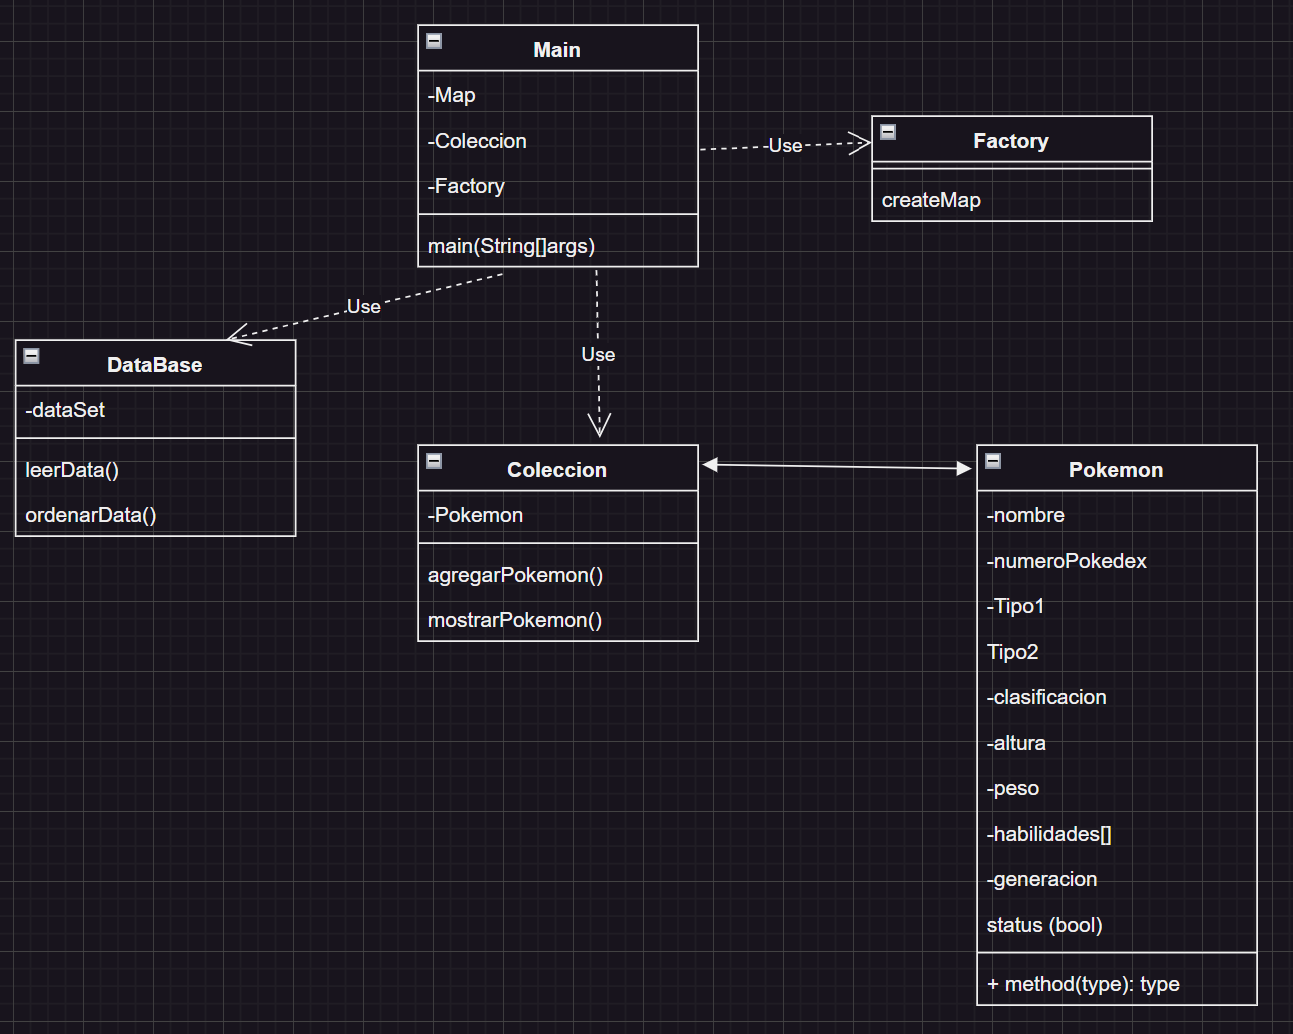
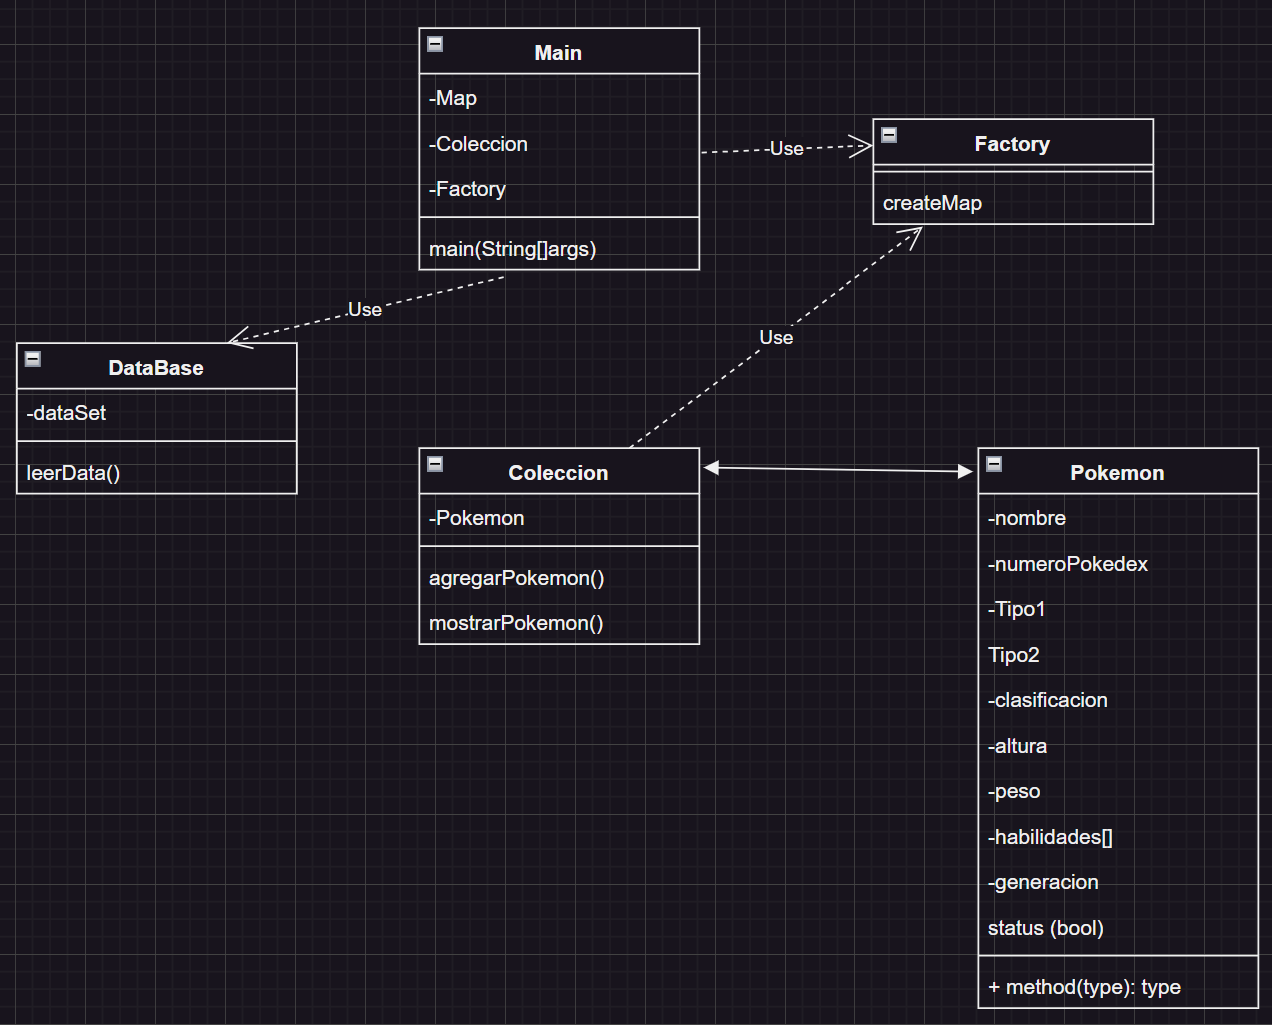
cambios al diagrama y creacion de clases

diff --git a/Coleccion.java b/Coleccion.java
@@ -1,0 +1,3 @@
+public class Coleccion {
+    
+}

diff --git a/Database.java b/Database.java
@@ -1,0 +1,3 @@
+public class Database {
+    
+}

diff --git a/Factory.java b/Factory.java
@@ -1,0 +1,3 @@
+public class Factory {
+    
+}

diff --git a/Pokemon.java b/Pokemon.java
@@ -1,0 +1,3 @@
+public class Pokemon{
+    
+}

diff --git a/Main.java b/Main.java
@@ -1,0 +1,3 @@
+public class Main {
+    
+}
